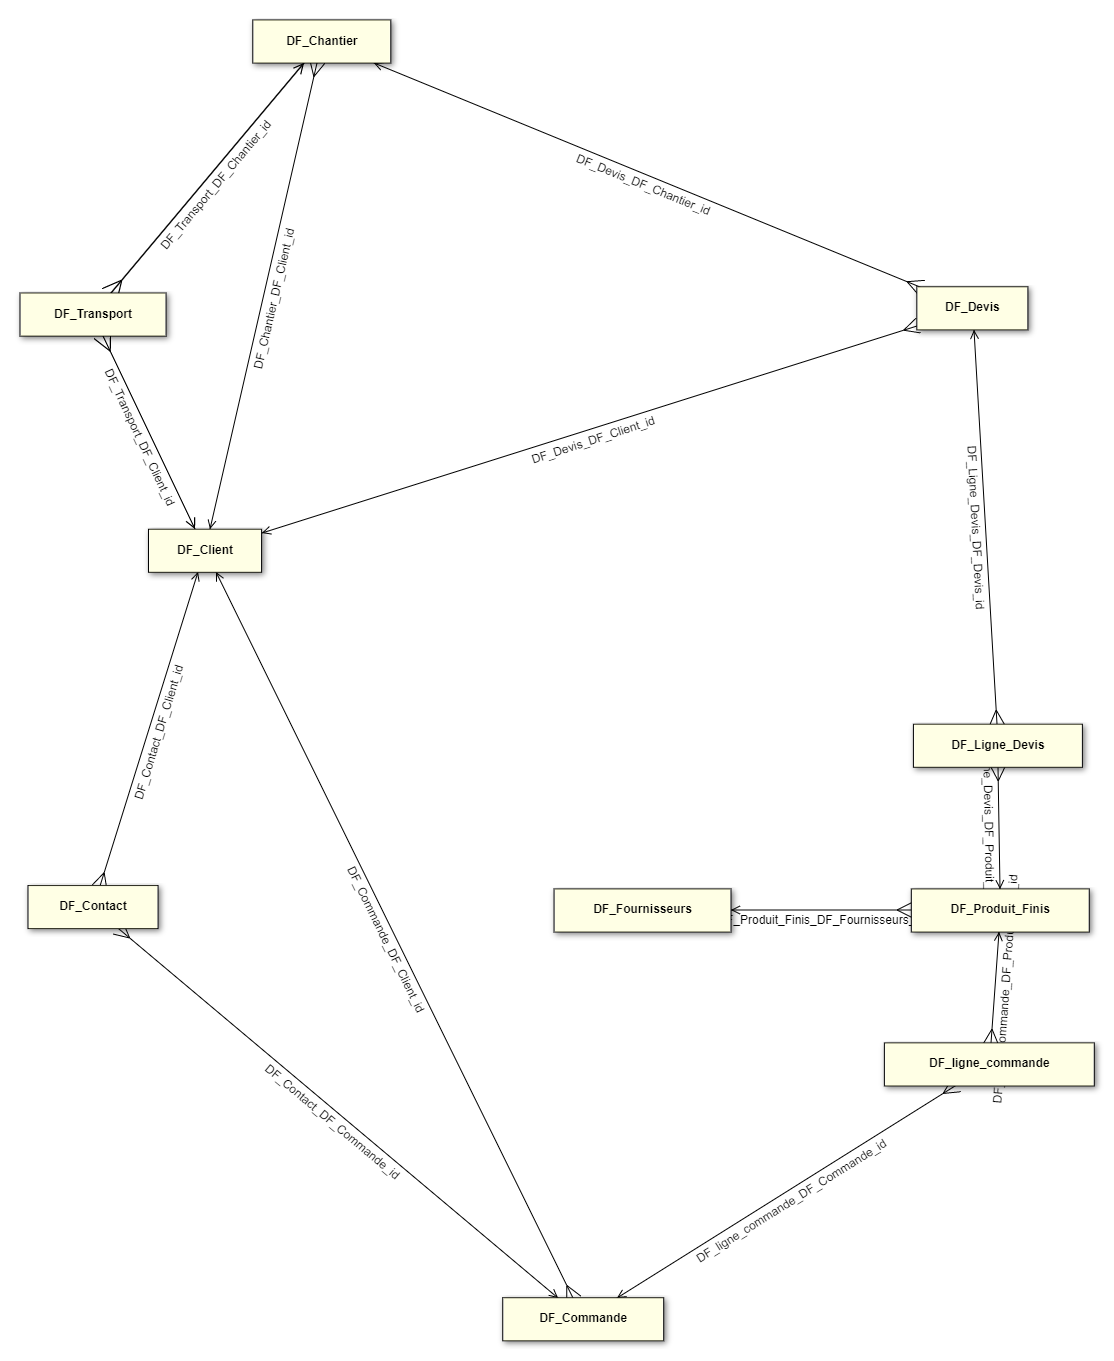
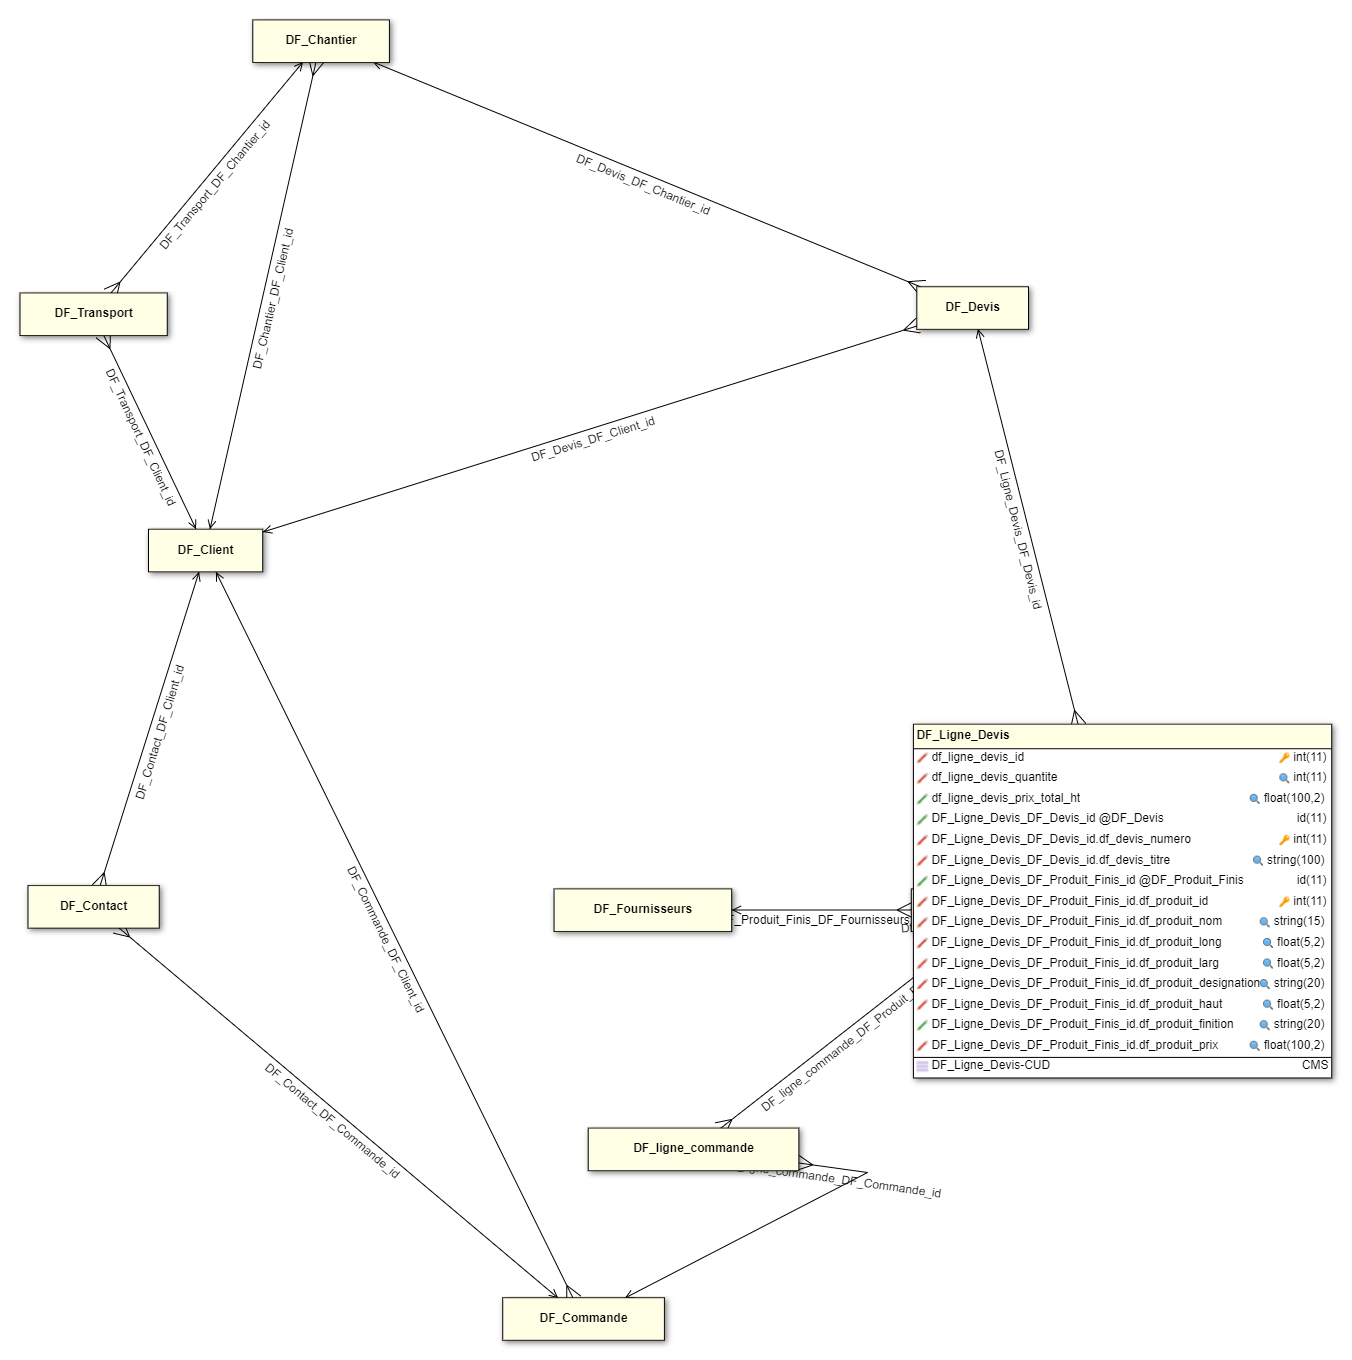
DF_v1.6

diff --git a/src/com/simplicite/objects/DeFilippis/DF_Ligne_Devis.java b/src/com/simplicite/objects/DeFilippis/DF_Ligne_Devis.java
@@ -1,0 +1,24 @@
+package com.simplicite.objects.DeFilippis;
+
+import java.util.*;
+import com.simplicite.util.*;
+import com.simplicite.util.tools.*;
+
+/**
+ * Business object DF_Ligne_Devis
+ */
+public class DF_Ligne_Devis extends ObjectDB {
+	private static final long serialVersionUID = 1L;
+	
+	@Override
+	public void initUpdate(){
+		
+		int q = getField("df_ligne_devis_quantite").getInt(0);
+        double p = getField("df_produit_prix").getDouble(0);
+        double total = p*q;
+        setFieldValue("df_ligne_devis_prix_total_ht", total);
+        
+        
+	}
+
+}

diff --git a/BUILD.md b/BUILD.md
@@ -1,0 +1,33 @@
+![](https://docs.simplicite.io//logos/logo250.png)
+* * *
+
+Apache Maven
+============
+
+Build:
+
+``` text
+mvn -U clean package
+```
+
+
+
+Analyse:
+
+``` text
+mvn sonar:sonar
+```
+
+
+
+Gradle
+======
+
+Build:
+
+``` text
+gradle --refresh-dependencies clean compileJava
+```
+
+
+
